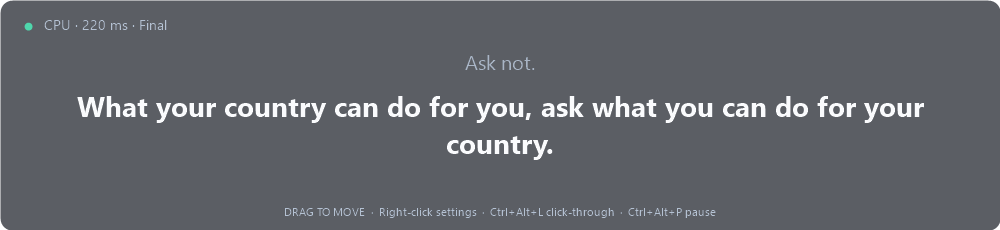
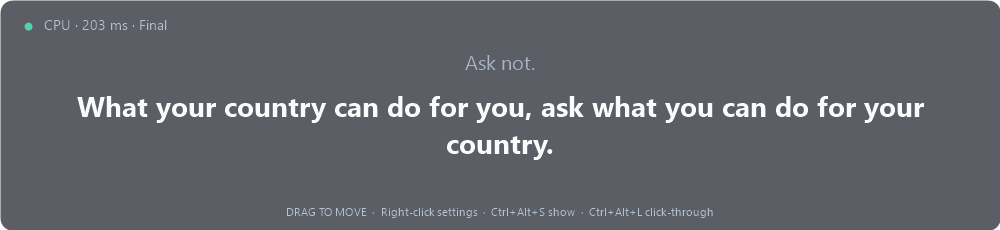
Fix subtitle overlay recovery and verify interactive desktop visibility

Changed region(s): [[0.279, 0.8826, 0.713, 0.9435], [0.093, 0.0913, 0.124, 0.1217]]

diff --git a/src/app.cpp b/src/app.cpp
@@ -14,8 +14,8 @@
 
 namespace fs=std::filesystem;
 using namespace Gdiplus;
-constexpr UINT WM_TEXT_READY=WM_APP+1,WM_STATUS_READY=WM_APP+2,WM_TRAY=WM_APP+3;
-constexpr int Pause=100,Lock=101,Bigger=102,Smaller=103,Restart=104,Exit=105,Logs=106;
+constexpr UINT WM_TEXT_READY=WM_APP+1,WM_STATUS_READY=WM_APP+2,WM_TRAY=WM_APP+3,WM_REVEAL=WM_APP+4;
+constexpr int Pause=100,Lock=101,Bigger=102,Smaller=103,Restart=104,Exit=105,Logs=106,Show=107;
 struct App {
     HWND window{};
     fs::path root;
@@ -31,6 +31,11 @@ struct App {
     std::atomic<bool> alive{true};
     std::wstring test_audio;
     bool testing=false;
+    bool window_test=false,reactivated=false,last_render=false,frame_alpha=false;
+    int test_stage=0,exit_code=0;
+    HANDLE test_child=nullptr;
+    ULONGLONG test_started=0;
+    std::ofstream window_report;
 } app;
 
 std::wstring wide(const std::string& s){
@@ -70,18 +75,58 @@ void paint(Bitmap& bitmap){
     g.DrawString(app.previous.c_str(),-1,&prior_font,previous,&format,&old);
     RectF current(28,87,REAL(w-56),REAL(h-122));
     g.DrawString(app.current.c_str(),-1,&main_font,current,&format,&white);
-    const wchar_t* help=app.locked?L"CLICK-THROUGH  ·  Ctrl+Alt+L unlock  ·  Ctrl+Alt+P pause  ·  Ctrl+Alt+Q exit":L"DRAG TO MOVE  ·  Right-click settings  ·  Ctrl+Alt+L click-through  ·  Ctrl+Alt+P pause";
+    const wchar_t* help=app.locked?L"CLICK-THROUGH  ·  Ctrl+Alt+S show / unlock  ·  Ctrl+Alt+P pause  ·  Ctrl+Alt+Q exit":L"DRAG TO MOVE  ·  Right-click settings  ·  Ctrl+Alt+S show  ·  Ctrl+Alt+L click-through";
     RectF foot(24,REAL(h-26),REAL(w-48),20);g.DrawString(help,-1,&foot_font,foot,&format,&secondary);
 }
-void render(){
-    if(!app.window)return;
+bool render(){
+    app.last_render=false;
+    if(!app.window)return false;
     RECT rect;GetWindowRect(app.window,&rect);SIZE size{rect.right-rect.left,rect.bottom-rect.top};
-    Bitmap bitmap(size.cx,size.cy,PixelFormat32bppPARGB);paint(bitmap);
-    HBITMAP handle=nullptr;bitmap.GetHBITMAP(Color(0,0,0,0),&handle);
-    HDC screen=GetDC(nullptr),dc=CreateCompatibleDC(screen);auto old=SelectObject(dc,handle);
+    if(size.cx<=0||size.cy<=0)return false;
+    // Draw directly into the premultiplied BGRA surface consumed by Windows.
+    // Avoid losing the alpha channel during a GDI+ -> HBITMAP conversion.
+    BITMAPINFO info{};info.bmiHeader.biSize=sizeof(BITMAPINFOHEADER);
+    info.bmiHeader.biWidth=size.cx;info.bmiHeader.biHeight=-size.cy;
+    info.bmiHeader.biPlanes=1;info.bmiHeader.biBitCount=32;info.bmiHeader.biCompression=BI_RGB;
+    void* pixels=nullptr;
+    HDC screen=GetDC(nullptr),dc=CreateCompatibleDC(screen);
+    HBITMAP handle=CreateDIBSection(screen,&info,DIB_RGB_COLORS,&pixels,nullptr,0);
+    if(!screen||!dc||!handle){
+        if(handle)DeleteObject(handle);if(dc)DeleteDC(dc);if(screen)ReleaseDC(nullptr,screen);return false;
+    }
+    {
+        Bitmap bitmap(size.cx,size.cy,size.cx*4,PixelFormat32bppPARGB,static_cast<BYTE*>(pixels));paint(bitmap);
+    }
+    if(app.window_test){
+        bool clear=false,translucent=false,opaque=false;
+        auto data=static_cast<BYTE*>(pixels);
+        for(LONG i=0;i<size.cx*size.cy;++i){BYTE a=data[i*4+3];clear|=a==0;translucent|=a>0&&a<255;opaque|=a==255;}
+        app.frame_alpha=clear&&translucent&&opaque;
+    }
+    auto old=SelectObject(dc,handle);
     POINT dst{rect.left,rect.top},src{};BLENDFUNCTION blend{AC_SRC_OVER,0,255,AC_SRC_ALPHA};
-    UpdateLayeredWindow(app.window,screen,&dst,&size,dc,&src,0,&blend,ULW_ALPHA);
+    app.last_render=UpdateLayeredWindow(app.window,screen,&dst,&size,dc,&src,0,&blend,ULW_ALPHA)!=FALSE;
     SelectObject(dc,old);DeleteObject(handle);DeleteDC(dc);ReleaseDC(nullptr,screen);
+    return app.last_render;
+}
+void show_overlay(bool reset_position){
+    POINT cursor{};GetCursorPos(&cursor);
+    HMONITOR monitor=reset_position?MonitorFromPoint(cursor,MONITOR_DEFAULTTOPRIMARY):MonitorFromWindow(app.window,MONITOR_DEFAULTTONEAREST);
+    MONITORINFO info{sizeof(MONITORINFO)};GetMonitorInfoW(monitor,&info);
+    RECT area=info.rcWork,rect{};GetWindowRect(app.window,&rect);
+    int width=std::min(1000,int(area.right-area.left-40)),height=std::min(230,int(area.bottom-area.top));
+    int x=reset_position?area.left+(area.right-area.left-width)/2:std::clamp(int(rect.left),int(area.left),int(area.right)-width);
+    int y=reset_position?std::max(int(area.top),int(area.bottom)-height-30):std::clamp(int(rect.top),int(area.top),int(area.bottom)-height);
+    if(reset_position){
+        app.locked=false;
+        SetWindowLongPtrW(app.window,GWL_EXSTYLE,GetWindowLongPtrW(app.window,GWL_EXSTYLE)&~WS_EX_TRANSPARENT);
+    }
+    // The first ShowWindow can obey the launcher's STARTUPINFO/SW_HIDE instead
+    // of our argument. SWP_SHOWWINDOW explicitly restores visibility afterward.
+    ShowWindow(app.window,IsIconic(app.window)?SW_RESTORE:SW_SHOWNOACTIVATE);
+    SetWindowPos(app.window,HWND_TOPMOST,x,y,width,height,SWP_NOACTIVATE|SWP_SHOWWINDOW);
+    if(!render()&&!app.window_test)
+        MessageBoxW(app.window,L"The subtitle window could not be drawn. Please restart the application.",L"FunASR Subtitle",MB_OK|MB_ICONERROR);
 }
 void save_settings(){
     auto file=(app.root/L"settings.ini").wstring();
@@ -109,6 +154,7 @@ void start_pipeline(){
 }
 void command(int id){
     switch(id){
+    case Show:show_overlay(true);return;
     case Pause:
         app.paused=!app.paused;if(app.pipeline)app.pipeline->pause(app.paused);
         {std::lock_guard lock(app.mutex);app.pending.clear();}
@@ -127,6 +173,7 @@ void command(int id){
 }
 void menu(){
     auto m=CreatePopupMenu();
+    AppendMenuW(m,MF_STRING,Show,L"Show / reset subtitle position  Ctrl+Alt+S");
     AppendMenuW(m,MF_STRING,Pause,app.paused?L"Resume  Ctrl+Alt+P":L"Pause  Ctrl+Alt+P");
     AppendMenuW(m,MF_STRING|(app.locked?MF_CHECKED:0),Lock,L"Click-through  Ctrl+Alt+L");
     AppendMenuW(m,MF_STRING,Bigger,L"Larger text");AppendMenuW(m,MF_STRING,Smaller,L"Smaller text");
@@ -135,12 +182,52 @@ void menu(){
     POINT p;GetCursorPos(&p);SetForegroundWindow(app.window);
     int result=TrackPopupMenu(m,TPM_RETURNCMD|TPM_RIGHTBUTTON,p.x,p.y,0,app.window,nullptr);DestroyMenu(m);if(result)command(result);
 }
+bool check_window(const char* phase){
+    RECT rect{};GetWindowRect(app.window,&rect);
+    MONITORINFO monitor{sizeof(MONITORINFO)};GetMonitorInfoW(MonitorFromWindow(app.window,MONITOR_DEFAULTTONEAREST),&monitor);
+    bool visible=IsWindowVisible(app.window)&&!IsIconic(app.window);
+    bool inside=rect.left>=monitor.rcWork.left&&rect.right<=monitor.rcWork.right&&rect.top>=monitor.rcWork.top&&rect.bottom<=monitor.rcWork.bottom;
+    auto style=GetWindowLongPtrW(app.window,GWL_EXSTYLE);
+    bool accessible=!app.locked&&!(style&WS_EX_TRANSPARENT);
+    bool topmost=(style&WS_EX_TOPMOST)!=0;
+    app.window_report<<phase<<": visible="<<visible<<" inside_work_area="<<inside<<" topmost="<<topmost
+        <<" unlocked="<<accessible<<" layered_update="<<app.last_render<<" transparent_translucent_opaque_pixels="<<app.frame_alpha<<std::endl;
+    return visible&&inside&&accessible&&topmost&&app.last_render&&app.frame_alpha;
+}
+void window_test_tick(){
+    bool failed=false;
+    if(app.test_stage==0){
+        if(!check_window("hidden startup"))failed=true;
+        else {
+            // Reproduce a lost, click-through window before relaunching the same EXE.
+            ShowWindow(app.window,SW_HIDE);
+            SetWindowPos(app.window,nullptr,-32000,-32000,0,0,SWP_NOSIZE|SWP_NOZORDER|SWP_NOACTIVATE);
+            app.locked=true;SetWindowLongPtrW(app.window,GWL_EXSTYLE,GetWindowLongPtrW(app.window,GWL_EXSTYLE)|WS_EX_TRANSPARENT);
+            STARTUPINFOW startup{sizeof(STARTUPINFOW)};startup.dwFlags=STARTF_USESHOWWINDOW;startup.wShowWindow=SW_HIDE;
+            PROCESS_INFORMATION child{};std::wstring args=GetCommandLineW();
+            if(!CreateProcessW(nullptr,args.data(),nullptr,nullptr,FALSE,0,nullptr,nullptr,&startup,&child))failed=true;
+            else {CloseHandle(child.hThread);app.test_child=child.hProcess;app.test_stage=1;}
+        }
+    }else if(WaitForSingleObject(app.test_child,0)==WAIT_OBJECT_0){
+        DWORD code=1;GetExitCodeProcess(app.test_child,&code);
+        app.window_report<<"duplicate exited="<<code<<" activation_received="<<app.reactivated<<std::endl;
+        failed=code!=0||!app.reactivated||!check_window("duplicate launch recovery");
+        if(!failed){
+            ShowWindow(app.window,SW_MINIMIZE);show_overlay(true);
+            failed=!check_window("minimized window recovery");
+        }
+        app.exit_code=failed?1:0;DestroyWindow(app.window);return;
+    }
+    if(GetTickCount64()-app.test_started>10000)failed=true;
+    if(failed){app.window_report<<"FAIL"<<std::endl;app.exit_code=1;DestroyWindow(app.window);}
+}
 LRESULT CALLBACK proc(HWND w,UINT message,WPARAM wp,LPARAM lp){
     switch(message){
+    case WM_REVEAL:show_overlay(true);app.reactivated=true;return 1;
     case WM_LBUTTONDOWN:ReleaseCapture();SendMessageW(w,WM_NCLBUTTONDOWN,HTCAPTION,lp);return 0;
     case WM_RBUTTONUP:menu();return 0;
     case WM_HOTKEY:command(int(wp));return 0;
-    case WM_TRAY:if(lp==WM_RBUTTONUP||lp==WM_LBUTTONUP)menu();return 0;
+    case WM_TRAY:if(lp==WM_RBUTTONUP)menu();else if(lp==WM_LBUTTONUP||lp==WM_LBUTTONDBLCLK)show_overlay(true);return 0;
     case WM_TEXT_READY:{
         std::deque<SubtitleEvent> events;{std::lock_guard lock(app.mutex);events.swap(app.pending);}
         if(app.paused)return 0;
@@ -148,14 +235,22 @@ LRESULT CALLBACK proc(HWND w,UINT message,WPARAM wp,LPARAM lp){
             if(e.id!=app.current_id){app.previous=app.current_id?app.current:L"";app.current_id=e.id;}
             app.current=wide(e.text);app.status=L"CPU · "+std::to_wstring(int(e.compute_ms))+L" ms · "+(e.final?L"Final":L"Live");
         }render();return 0;}
-    case WM_STATUS_READY:{std::lock_guard lock(app.mutex);app.status=wide(app.pending_status);render();return 0;}
-    case WM_DISPLAYCHANGE:{RECT area;SystemParametersInfoW(SPI_GETWORKAREA,0,&area,0);SetWindowPos(w,HWND_TOPMOST,area.left+40,area.bottom-270,0,0,SWP_NOSIZE|SWP_NOACTIVATE);render();return 0;}
+    case WM_STATUS_READY:{
+        std::lock_guard lock(app.mutex);app.status=wide(app.pending_status);
+        if(!app.current_id&&!app.paused&&app.pending_status.starts_with("Listening to Windows output:"))app.current=L"Waiting for system audio…";
+        render();return 0;}
+    case WM_DISPLAYCHANGE:show_overlay(false);return 0;
+    case WM_SETTINGCHANGE:if(wp==SPI_SETWORKAREA)show_overlay(false);return 0;
     case WM_TIMER:
+        if(wp==3){window_test_tick();return 0;}
         if(wp==1){KillTimer(w,1);PlaySoundW(app.test_audio.c_str(),nullptr,SND_FILENAME|SND_ASYNC|SND_NODEFAULT);}
         if(wp==2){
             KillTimer(w,2);
             fs::create_directories(app.root/L"test-output");
             std::ofstream state(app.root/L"test-output/gui-state.txt");state<<utf8(app.current)<<'\n'<<utf8(app.status)<<'\n';
+            RECT rect{};GetWindowRect(w,&rect);
+            state<<"visible="<<IsWindowVisible(w)<<" layered_update="<<app.last_render
+                <<" rect="<<rect.left<<','<<rect.top<<','<<rect.right<<','<<rect.bottom<<'\n';
             Bitmap b(1000,230,PixelFormat32bppPARGB);paint(b);
             CLSID png={0x557cf406,0x1a04,0x11d3,{0x9a,0x73,0x00,0x00,0xf8,0x1e,0xf3,0x2e}};
             b.Save((app.root/L"test-output/gui-live.png").c_str(),&png);
@@ -163,7 +258,7 @@ LRESULT CALLBACK proc(HWND w,UINT message,WPARAM wp,LPARAM lp){
         }return 0;
     case WM_DESTROY:
         app.alive=false;app.pipeline.reset();Shell_NotifyIconW(NIM_DELETE,&app.tray);
-        UnregisterHotKey(w,Pause);UnregisterHotKey(w,Lock);UnregisterHotKey(w,Exit);PostQuitMessage(0);return 0;
+        UnregisterHotKey(w,Pause);UnregisterHotKey(w,Lock);UnregisterHotKey(w,Exit);UnregisterHotKey(w,Show);PostQuitMessage(app.exit_code);return 0;
     }
     return DefWindowProcW(w,message,wp,lp);
 }
@@ -179,33 +274,62 @@ int WINAPI wWinMain(HINSTANCE instance,HINSTANCE,PWSTR,int){
         CLSID png={0x557cf406,0x1a04,0x11d3,{0x9a,0x73,0x00,0x00,0xf8,0x1e,0xf3,0x2e}};
         auto status=b.Save(argv[2],&png);LocalFree(argv);return status==Ok?0:1;
     }
-    int test_seconds=0;
+    int test_seconds=0;std::wstring window_class=L"FunASRSubtitle",mutex_name=L"Local\\FunASRSubtitle.SingleInstance",test_report;
     for(int i=1;i<argc;++i){
         if(std::wstring(argv[i])==L"--test-seconds"&&i+1<argc)test_seconds=std::clamp(_wtoi(argv[++i]),5,3600);
         else if(std::wstring(argv[i])==L"--test-audio"&&i+1<argc)app.test_audio=argv[++i];
+        else if(std::wstring(argv[i])==L"--test-window"&&i+1<argc){
+            app.window_test=true;std::wstring session=argv[++i];window_class+=L".Test."+session;mutex_name+=L".Test."+session;
+        }
+        else if(std::wstring(argv[i])==L"--test-report"&&i+1<argc)test_report=argv[++i];
     }
     app.testing=test_seconds>0;
     LocalFree(argv);
-    HANDLE singleton=CreateMutexW(nullptr,FALSE,L"Local\\FunASRSubtitle.SingleInstance");
-    if(GetLastError()==ERROR_ALREADY_EXISTS){MessageBoxW(nullptr,L"FunASR Subtitle is already running. Use its tray icon.",L"FunASR Subtitle",MB_OK);CloseHandle(singleton);return 0;}
+    HANDLE singleton=CreateMutexW(nullptr,FALSE,mutex_name.c_str());
+    if(!singleton){GdiplusShutdown(token);return 1;}
+    if(GetLastError()==ERROR_ALREADY_EXISTS){
+        // The first process may still be creating its window. Wait briefly for it,
+        // then ask it to reveal itself without creating another GUI or engine.
+        bool activated=false;
+        for(int attempt=0;attempt<30;++attempt){
+            if(HWND existing=FindWindowW(window_class.c_str(),nullptr)){
+                DWORD result=0;GetWindowThreadProcessId(existing,&result);AllowSetForegroundWindow(result);
+                DWORD_PTR reply=0;
+                activated=SendMessageTimeoutW(existing,WM_REVEAL,0,0,SMTO_ABORTIFHUNG,2000,&reply)&&reply==1;
+                break;
+            }
+            Sleep(100);
+        }
+        if(!activated&&!app.window_test)MessageBoxW(nullptr,L"The running subtitle application could not be reached. It may be on another Windows desktop. Close FunASRSubtitle.exe in Task Manager, then open it again.",L"FunASR Subtitle",MB_OK|MB_ICONERROR);
+        CloseHandle(singleton);GdiplusShutdown(token);return activated?0:1;
+    }
+    if(app.window_test){
+        app.window_report.open(fs::path(test_report));app.test_started=GetTickCount64();app.exit_code=1;
+        app.current=L"Subtitle window visibility regression test";
+    }
     auto ini=(app.root/L"settings.ini").wstring();
     app.font_size=std::clamp(int(GetPrivateProfileIntW(L"overlay",L"font",28,ini.c_str())),18,42);
     app.opacity=std::clamp(int(GetPrivateProfileIntW(L"overlay",L"opacity",175,ini.c_str())),30,240);
     app.threads=std::clamp(int(GetPrivateProfileIntW(L"engine",L"threads",8,ini.c_str())),1,32);
-    WNDCLASSW c{};c.lpfnWndProc=proc;c.hInstance=instance;c.lpszClassName=L"FunASRSubtitle";c.hCursor=LoadCursor(nullptr,IDC_ARROW);RegisterClassW(&c);
+    WNDCLASSW c{};c.lpfnWndProc=proc;c.hInstance=instance;c.lpszClassName=window_class.c_str();c.hCursor=LoadCursor(nullptr,IDC_ARROW);RegisterClassW(&c);
     RECT area;SystemParametersInfoW(SPI_GETWORKAREA,0,&area,0);int width=std::min(1000,int(area.right-area.left-40));
     app.window=CreateWindowExW(WS_EX_LAYERED|WS_EX_TOPMOST|WS_EX_TOOLWINDOW,c.lpszClassName,L"FunASR Subtitle",WS_POPUP,
         area.left+(area.right-area.left-width)/2,area.bottom-260,width,230,nullptr,nullptr,instance,nullptr);
     if(!app.window)return 1;
+    if(!app.window_test){
     app.tray.cbSize=sizeof(app.tray);app.tray.hWnd=app.window;app.tray.uID=1;
     app.tray.uFlags=NIF_MESSAGE|NIF_ICON|NIF_TIP;app.tray.uCallbackMessage=WM_TRAY;
     app.tray.hIcon=LoadIconW(nullptr,IDI_INFORMATION);wcscpy_s(app.tray.szTip,L"FunASR Subtitle — system audio");Shell_NotifyIconW(NIM_ADD,&app.tray);
     bool hotkeys=RegisterHotKey(app.window,Pause,MOD_CONTROL|MOD_ALT|MOD_NOREPEAT,'P')!=0;
     hotkeys=RegisterHotKey(app.window,Lock,MOD_CONTROL|MOD_ALT|MOD_NOREPEAT,'L')&&hotkeys;
     hotkeys=RegisterHotKey(app.window,Exit,MOD_CONTROL|MOD_ALT|MOD_NOREPEAT,'Q')&&hotkeys;
+    hotkeys=RegisterHotKey(app.window,Show,MOD_CONTROL|MOD_ALT|MOD_NOREPEAT,'S')&&hotkeys;
     if(!hotkeys)MessageBoxW(app.window,L"Some shortcuts are in use. The tray menu remains available.",L"Shortcut conflict",MB_OK);
-    ShowWindow(app.window,SW_SHOWNOACTIVATE);render();start_pipeline();
+    }
+    show_overlay(true);
+    if(app.window_test)SetTimer(app.window,3,100,nullptr);else start_pipeline();
     if(app.testing){if(!app.test_audio.empty())SetTimer(app.window,1,2000,nullptr);SetTimer(app.window,2,test_seconds*1000,nullptr);}
     MSG msg;while(GetMessageW(&msg,nullptr,0,0)>0){TranslateMessage(&msg);DispatchMessageW(&msg);}
-    CloseHandle(singleton);GdiplusShutdown(token);return 0;
+    if(app.test_child)CloseHandle(app.test_child);
+    CloseHandle(singleton);GdiplusShutdown(token);return app.exit_code;
 }

diff --git a/tests/overlay_tests.cpp b/tests/overlay_tests.cpp
@@ -1,0 +1,39 @@
+#include <windows.h>
+#include <filesystem>
+#include <fstream>
+#include <iostream>
+#include <string>
+
+// Exercise the actual GUI executable even when its launcher requests a hidden
+// window. Its isolated test instance performs no audio capture or model loading.
+int wmain(int argc,wchar_t** argv){
+    SetProcessDPIAware();
+    if(argc!=2)return 1;
+    if(std::wstring(argv[1])==L"--inspect-running"){
+        wchar_t desktop[256]{};DWORD needed=0;
+        GetUserObjectInformationW(GetThreadDesktop(GetCurrentThreadId()),UOI_NAME,desktop,sizeof(desktop),&needed);
+        std::wcout<<L"desktop="<<desktop<<L'\n';
+        HWND window=FindWindowW(L"FunASRSubtitle",nullptr);
+        DWORD pid=0;GetWindowThreadProcessId(window,&pid);
+        RECT rect{};GetWindowRect(window,&rect);
+        std::wcout<<L"found="<<(window!=nullptr)<<L" pid="<<pid<<L" visible="<<IsWindowVisible(window)
+            <<L" rect="<<rect.left<<L','<<rect.top<<L','<<rect.right<<L','<<rect.bottom<<L'\n';
+        return window?0:1;
+    }
+    auto session=std::to_wstring(GetCurrentProcessId());
+    auto report=std::filesystem::absolute(L"overlay-test-"+session+L".txt");
+    std::wstring command=L"\""+std::wstring(argv[1])+L"\" --test-window "+session+L" --test-report \""+report.wstring()+L"\"";
+    STARTUPINFOW startup{sizeof(STARTUPINFOW)};
+    startup.dwFlags=STARTF_USESHOWWINDOW;startup.wShowWindow=SW_HIDE;
+    PROCESS_INFORMATION process{};
+    if(!CreateProcessW(nullptr,command.data(),nullptr,nullptr,FALSE,0,nullptr,nullptr,&startup,&process)){
+        std::cerr<<"Could not launch GUI test: "<<GetLastError()<<'\n';return 1;
+    }
+    CloseHandle(process.hThread);
+    DWORD code=1;
+    if(WaitForSingleObject(process.hProcess,15000)==WAIT_OBJECT_0)GetExitCodeProcess(process.hProcess,&code);
+    else {std::cerr<<"GUI test timed out\n";TerminateProcess(process.hProcess,1);WaitForSingleObject(process.hProcess,2000);}
+    CloseHandle(process.hProcess);
+    std::ifstream result(report);std::cout<<result.rdbuf();
+    return int(code);
+}

diff --git a/README.md b/README.md
@@ -22,7 +22,9 @@ pwsh -File scripts/build.ps1
 ## 使用
 
 - 播放浏览器、视频、会议软件的声音，字幕自动显示。采集当前默认输出设备的混音，不录制麦克风。
-- 拖动字幕面板调整位置，右键或托盘图标打开菜单。
+- 启动后立即显示半透明置顶字幕栏；没有声音时显示等待提示。
+- 拖动字幕面板调整位置，右键字幕栏或托盘图标打开菜单。
+- 再次打开 EXE、左键点击托盘图标或按 `Ctrl+Alt+S`，可将字幕栏恢复到鼠标所在屏幕下方，同时解除点击穿透。
 - `Ctrl+Alt+P`：暂停 / 继续；`Ctrl+Alt+L`：点击穿透 / 解锁；`Ctrl+Alt+Q`：退出。
 - 菜单可调字号、重启采集及模型、打开字幕目录。
 - `logs/` 按会话保存最终 SRT 和含临时修订的 TSV。本地保存，不上传。
@@ -58,4 +60,13 @@ python scripts/wer.py tests/english-reference.txt test-output/live-final.txt
 ```
 
 GUI 布局可离线渲染：`FunASRSubtitle.exe --render-preview preview.png`，不启动采集。
+构建脚本还会启动隔离的 GUI 测试实例（不加载模型、不采集声音），检查隐藏启动、透明图层、
+重复打开、移出屏幕和最小化后的恢复。测试实例自动退出，不干扰正在运行的正式实例。
+
+若提示已经运行却看不到字幕，请先按 `Ctrl+Alt+S` 或再次打开 EXE。若仍提示无法连接已有实例，
+在任务管理器中结束 `FunASRSubtitle.exe` 后，从资源管理器重新打开。
+GUI 必须运行在用户的交互桌面；自动化工具的隔离桌面内即使窗口标记为可见，用户也看不到。
+诊断命令 `build\Release\overlay_tests.exe --inspect-running` 可输出调用环境所在桌面、当前桌面
+是否有字幕窗口、进程号和窗口位置；须在用户正常桌面终端执行。
+
 源代码来源和修改范围见 [vendor/NOTICE.md](vendor/NOTICE.md)。
